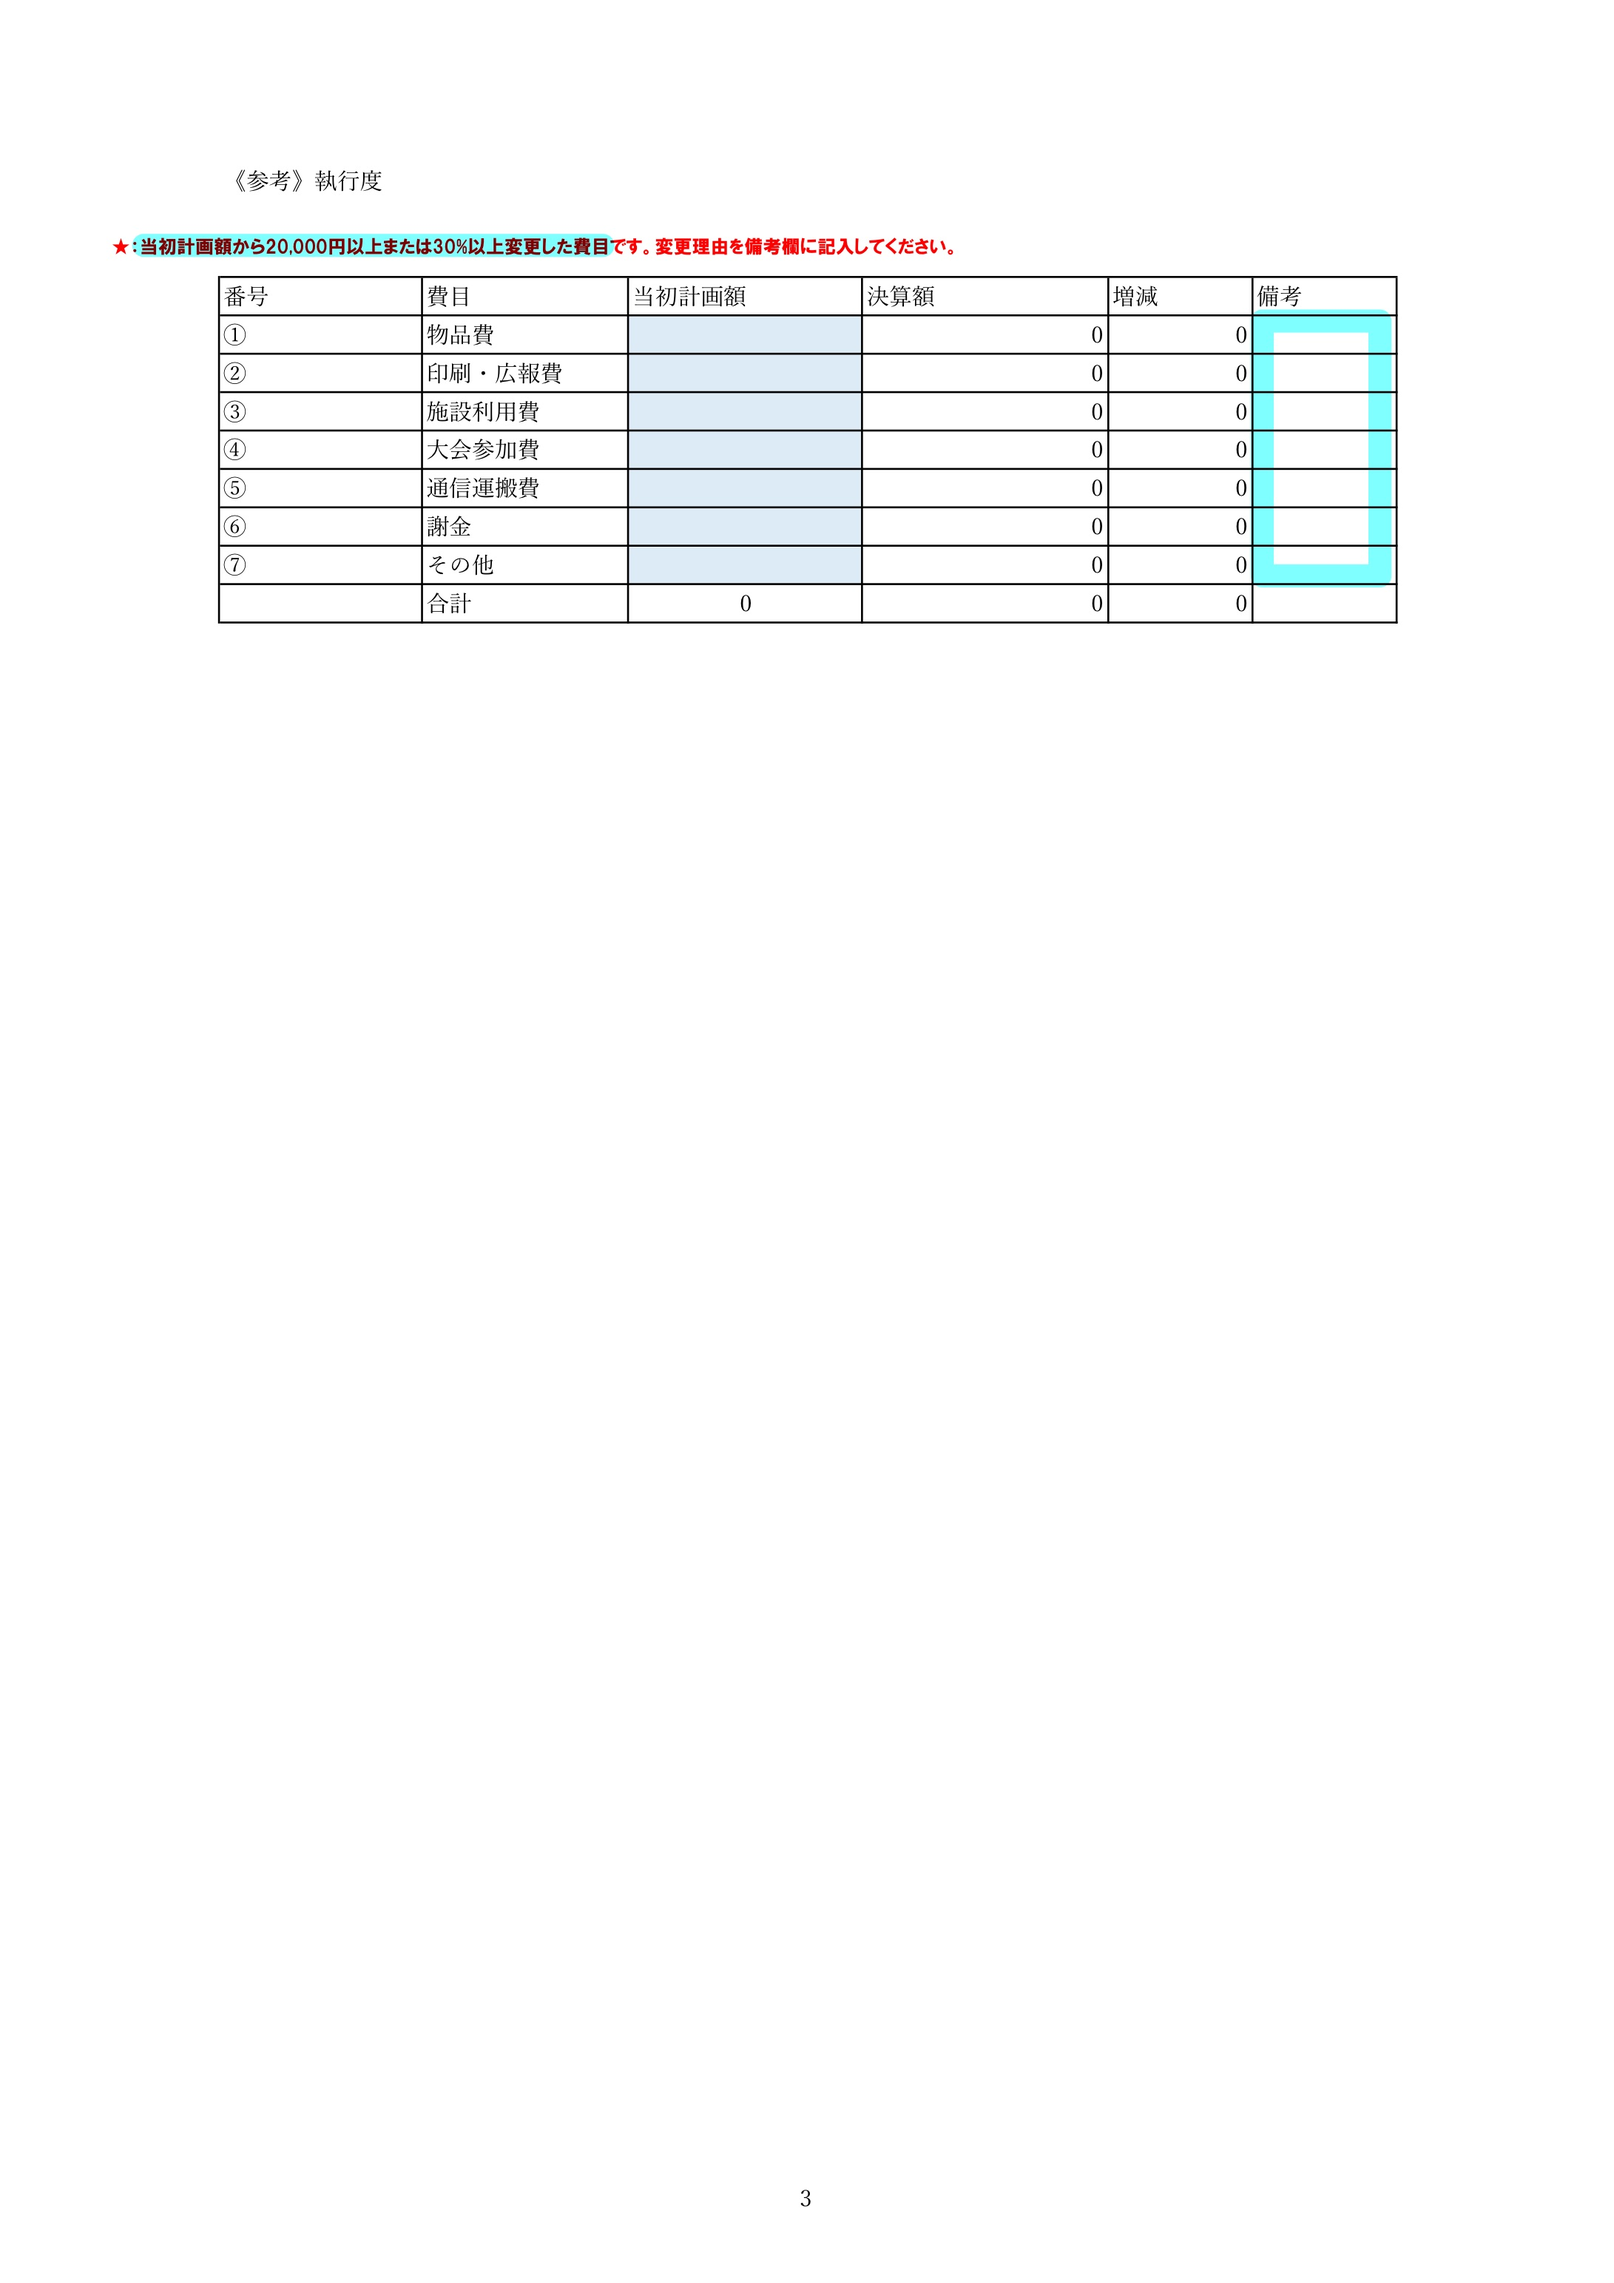
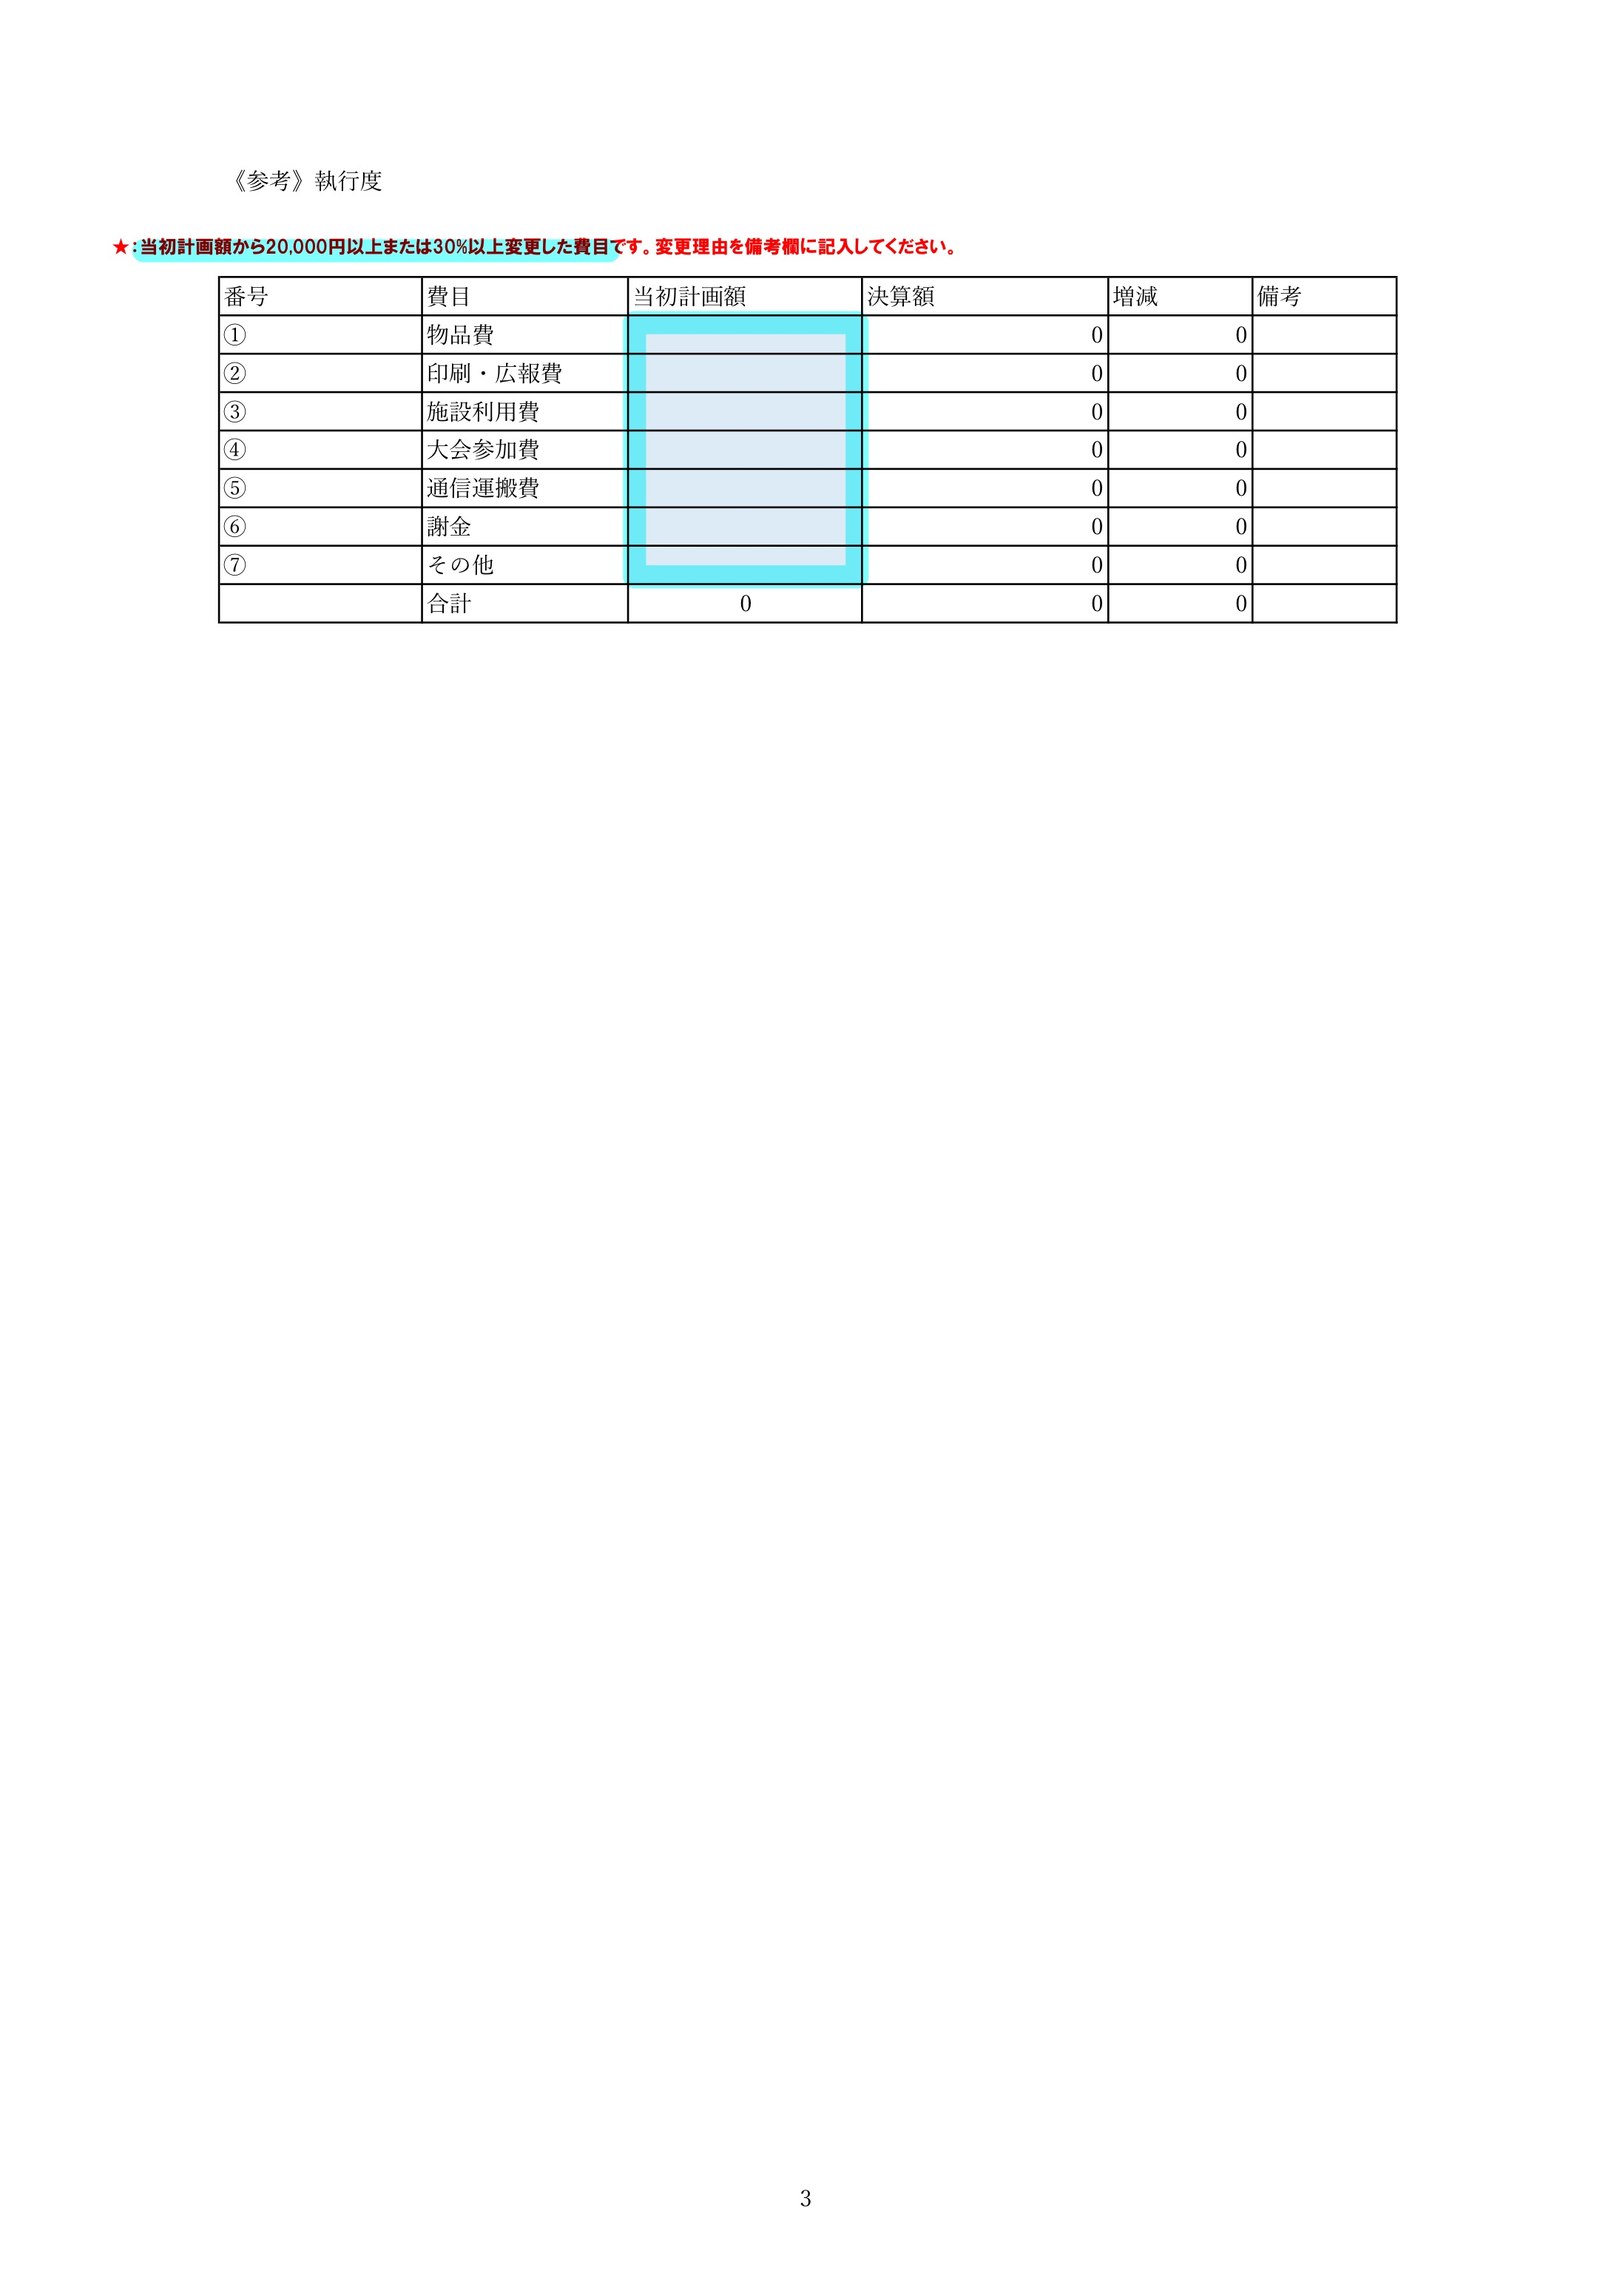
質問内容追加

Changed region(s): [[0.374, 0.1244, 0.561, 0.28], [0.7479, 0.1244, 0.8726, 0.28], [0.0935, 0.0933, 0.374, 0.1244]]

diff --git a/questions.js b/questions.js
@@ -23,17 +23,18 @@ const questionsData = [
   {
     id: 4,
     title: "表紙について",
-    question: "代表者と会計担当者は違う人の名前ですか？",
-    order: "代表者名と会計担当者が同じです。違う人にしてください。",
+    question: "代表者と会計担当者は違う人物が担当しており、本人からの手書きの署名がありますか？",
+    order: "代表者と会計担当者は違う人物に設置し、本人からの手書きの署名をお願いします。",
     image: "images/4.jpg",
   },
   {
     id: 5,
     title: "表紙について",
-    question: "代表者名と会計担当者名は手書きですか？",
-    order: "代表者名と会計担当者名を手書きでお願いします。",
+    question: "実際に令和8年度の会計業務を担当している方が、会計担当者とされていますか？",
+    order: "実体のない会計担当の設置です。実際に令和8年度の会計業務を担当していた方の名前を記載してください。",
     image: "images/5.jpg",
   },
+
   {
     id: 6,
     title: "表紙について",
@@ -104,19 +105,52 @@ const questionsData = [
     id: 15,
     title: "<<参考>> 執行度 について",
     question:
-      "当初計画額から20,000以上または30%以上変更した項目に関して、変更理由が備考欄に記入されていますか？",
+      "当初計画額から20,000以上または30%以上変更した項目に関して、当初計画額の金額は、予算請求書の金額と一致していますか？",
     order:
-      "当初計画額から20,000以上または30%以上変更した項目に関して、変更理由を備考欄に記入してください。",
+      "当初計画額から20,000以上または30%以上変更した項目に関して、当初計画額の金額が、予算請求書の金額と一致していません。予算請求書通りに訂正してください。",
     image: "images/15.jpg",
   },
   {
     id: 16,
     title: "<<参考>> 執行度 について",
-    question: "合計の金額の値は正しいですか？",
-    order: "合計の金額が間違っています。",
+    question:
+      "当初計画額から20,000以上または30%以上変更した項目に関して、決算額の金額は正しいですか？",
+    order:
+      "当初計画額から20,000以上または30%以上変更した項目に関して、決算額の金額が間違っています。訂正してください。",
     image: "images/16.jpg",
   },
-
+  {
+    id: 17,
+    title: "<<参考>> 執行度 について",
+    question:
+      "当初計画額から20,000以上または30%以上変更した項目に関して、増減額は、当初計画額から決算額を引いた値になっていますか？",
+    order:
+      "当初計画額から20,000以上または30%以上変更した項目に関して、増減額が当初計画額から決算額を引いた値になっていません。訂正してください。",
+    image: "images/17.jpg",
+  },
+  {
+    id: 18,
+    title: "<<参考>> 執行度 について",
+    question:
+      "当初計画額から20,000以上または30%以上変更した項目に関して、変更理由が備考欄に記入されていますか？",
+    order:
+      "当初計画額から20,000以上または30%以上変更した項目に関して、変更理由を備考欄に記入してください。",
+    image: "images/18.jpg",
+  },
+  {
+    id: 19,
+    title: "<<参考>> 執行度 について",
+    question: "合計の金額の値は正しいですか？",
+    order: "合計の金額が間違っています。",
+    image: "images/19.jpg",
+  },
+  {
+    id: ,
+    title: "？について",
+    question: "？",
+    order: "？",
+    image: "images/.jpg"
+  },
   /*
   テンプレ
 
